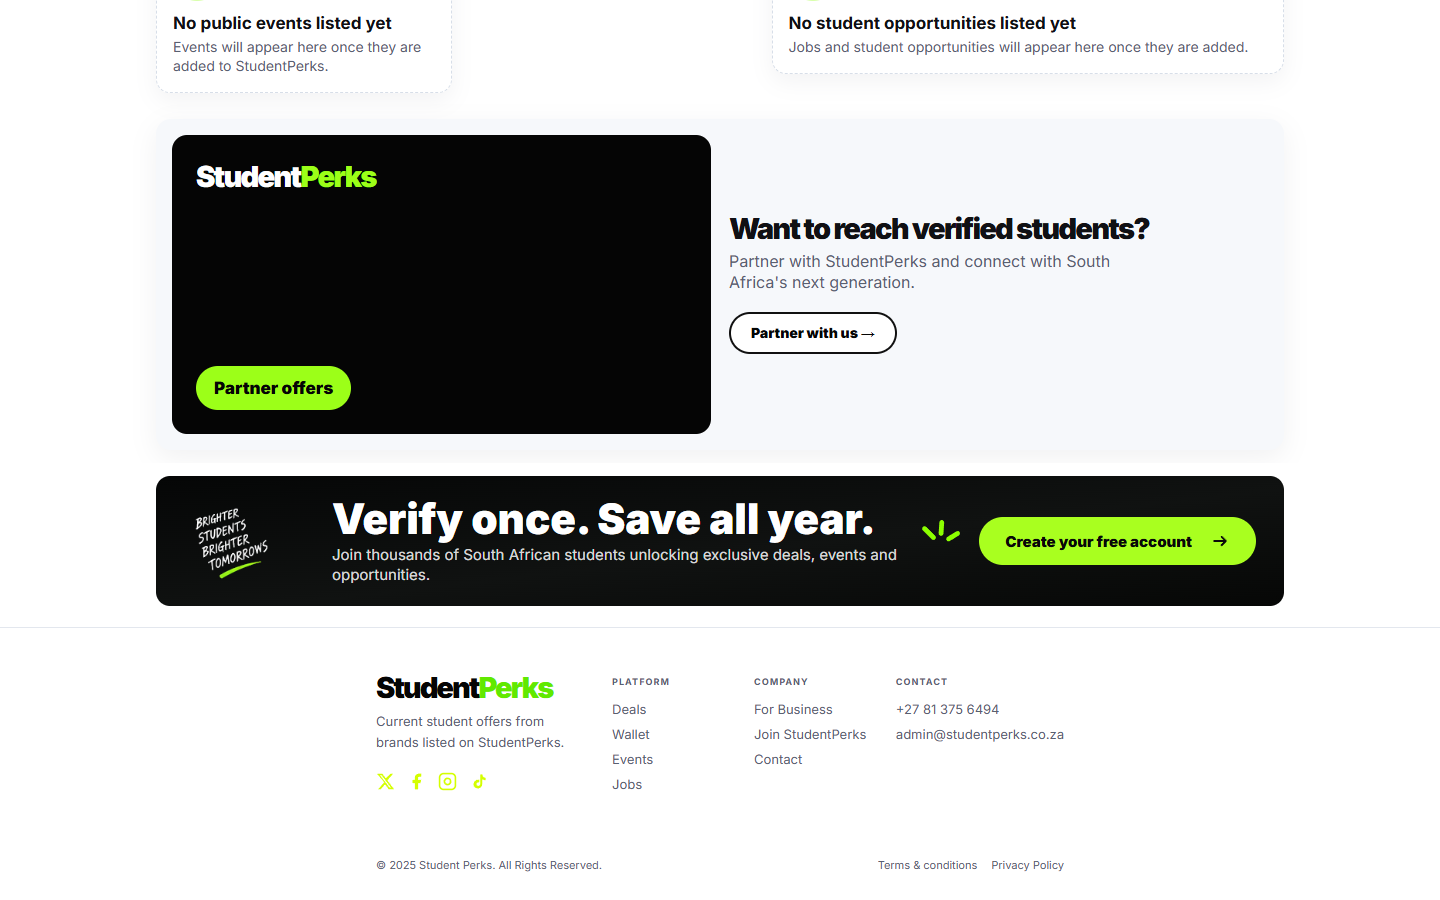
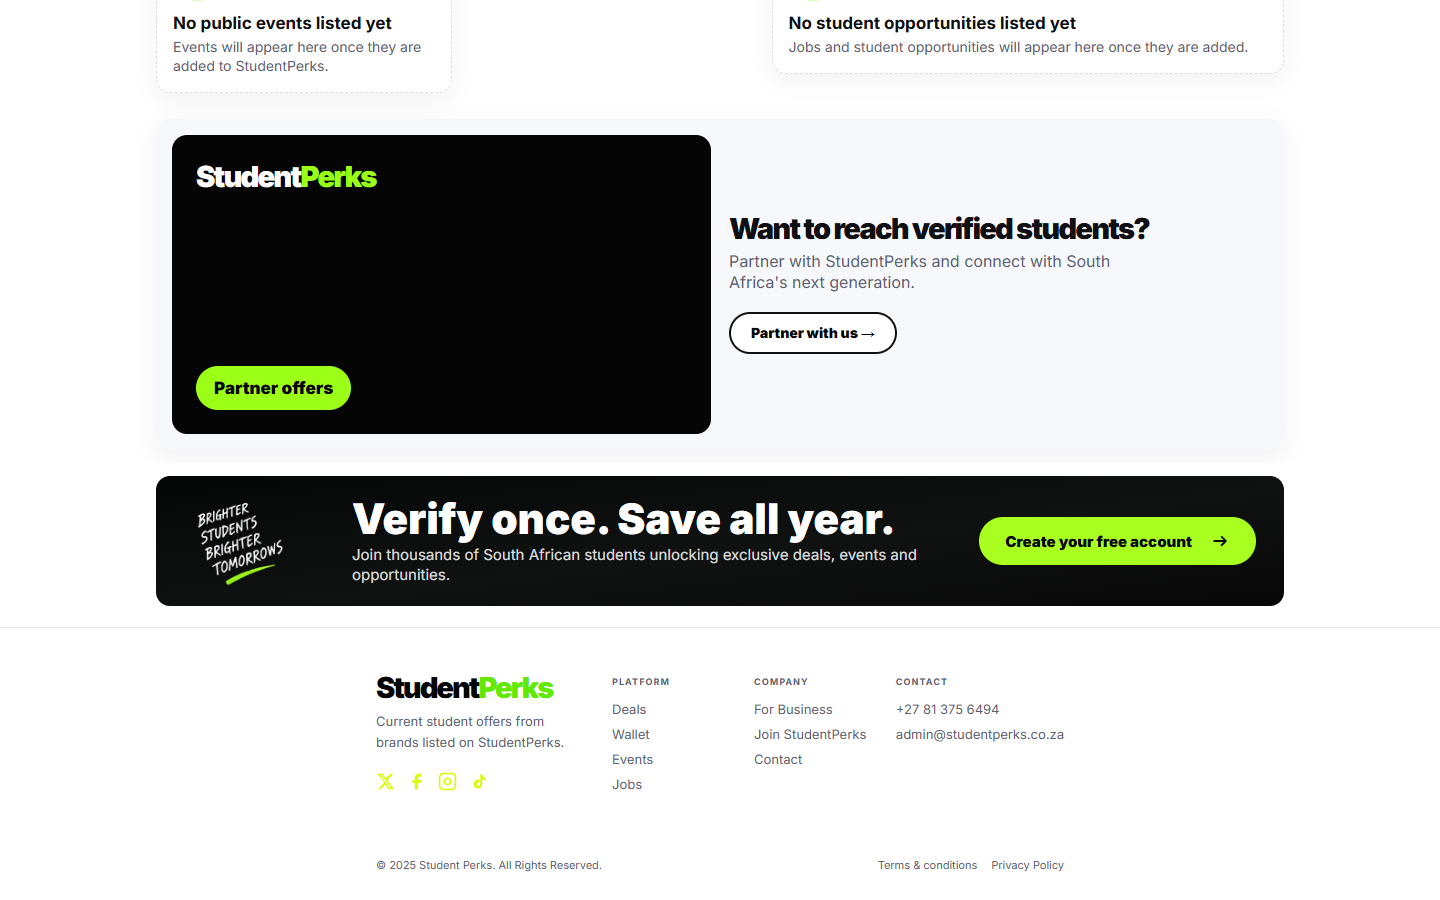
Remove verify save rays

Changed region(s): [[0.2188, 0.56, 0.6562, 0.6533], [0.125, 0.56, 0.1875, 0.6533]]

diff --git a/index.html b/index.html
@@ -1753,7 +1753,7 @@ body.public-redesign .applied-banner {
 }
 .verify-save {
   display: grid;
-  grid-template-columns: 128px minmax(0, 1fr) 42px auto;
+  grid-template-columns: 148px minmax(0, 1fr) auto;
   align-items: center;
   gap: 20px;
   min-height: 130px;
@@ -1764,7 +1764,7 @@ body.public-redesign .applied-banner {
   background: #050606 url('assets/sections/verify-save/background.svg') center/cover no-repeat;
 }
 .verify-save__mark {
-  width: 112px;
+  width: 132px;
   height: auto;
   display: block;
 }
@@ -1784,9 +1784,7 @@ body.public-redesign .applied-banner {
   line-height: 1.3;
 }
 .verify-save__rays {
-  width: 44px;
-  height: auto;
-  display: block;
+  display: none;
 }
 .verify-save__button {
   display: inline-flex;
@@ -1812,15 +1810,15 @@ body.public-redesign .applied-banner {
 }
 @media(max-width:900px){
   .verify-save {
-    grid-template-columns: 118px minmax(300px, 1fr) 28px auto;
-    grid-template-areas: "mark copy rays button";
+    grid-template-columns: 106px minmax(300px, 1fr) auto;
+    grid-template-areas: "mark copy button";
     column-gap: 10px;
     min-height: 130px;
     padding: 15px 22px;
   }
   .verify-save__mark {
     grid-area: mark;
-    width: 108px;
+    width: 100px;
     justify-self: center;
   }
   .verify-save__copy {
@@ -1836,8 +1834,7 @@ body.public-redesign .applied-banner {
   }
   .verify-save__rays {
     grid-area: rays;
-    display: block;
-    width: 28px;
+    display: none;
     justify-self: center;
   }
   .verify-save__button {
@@ -1855,22 +1852,22 @@ body.public-redesign .applied-banner {
 }
 @media(max-width:760px) and (min-width:561px){
   .verify-save {
-    grid-template-columns: 82px minmax(285px, 1fr) 22px auto;
+    grid-template-columns: 94px minmax(292px, 1fr) auto;
     column-gap: 7px;
     padding: 15px 12px;
   }
   .verify-save__mark {
-    width: 78px;
+    width: 94px;
   }
   .verify-save__copy h2 {
     font-size: 22px;
   }
   .verify-save__copy p {
-    max-width: 285px;
+    max-width: 292px;
     font-size: 9.5px;
   }
   .verify-save__rays {
-    width: 22px;
+    display: none;
   }
   .verify-save__button {
     min-height: 36px;
@@ -1887,7 +1884,7 @@ body.public-redesign .applied-banner {
     padding: 26px 22px;
   }
   .verify-save__mark {
-    width: 105px;
+    width: 122px;
   }
   .verify-save__copy h2 {
     font-size: 31px;
